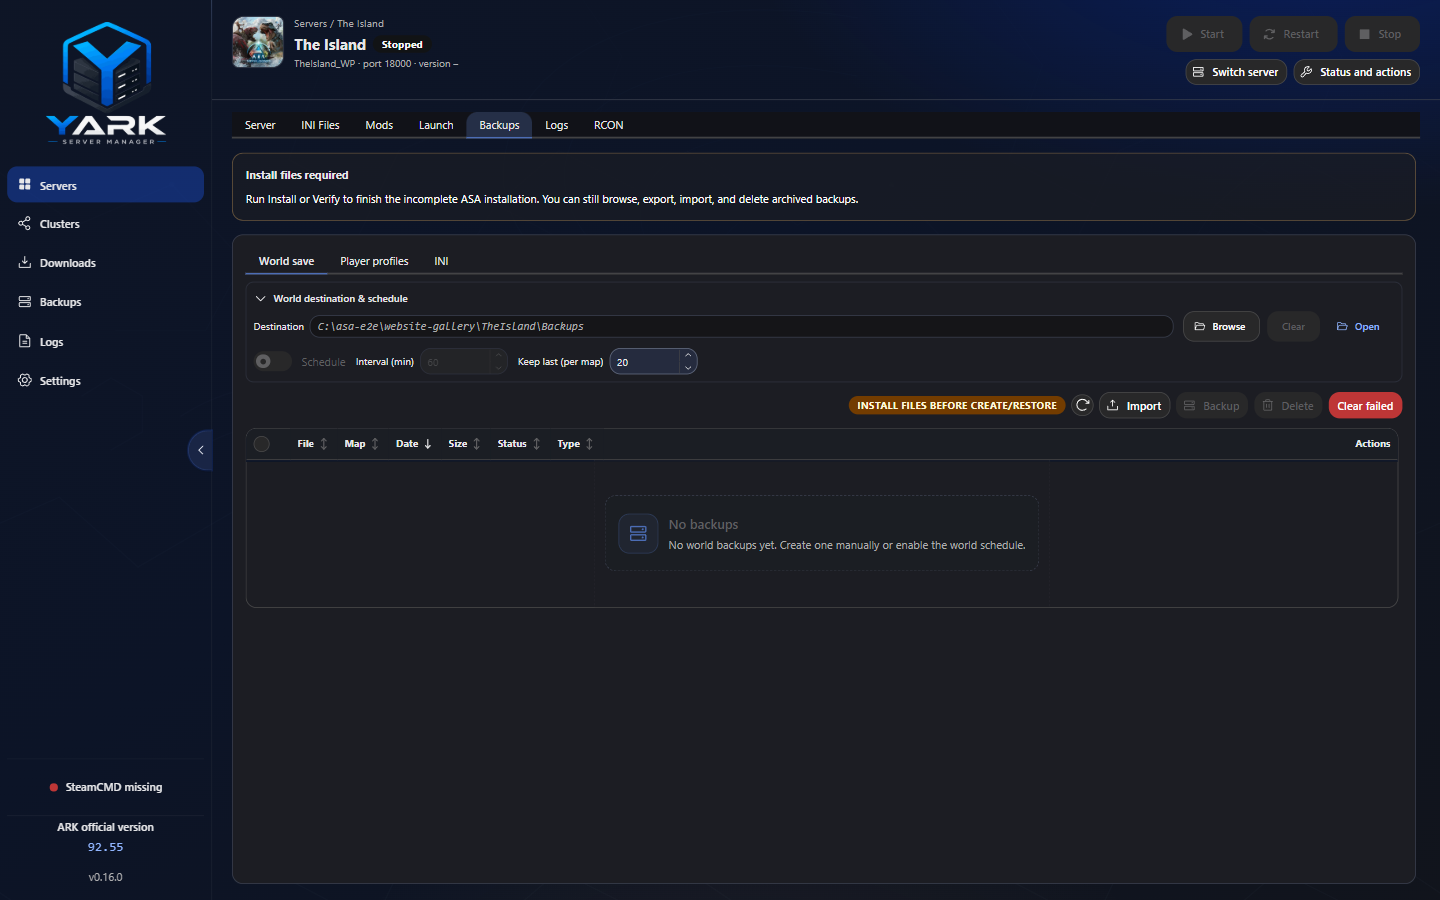
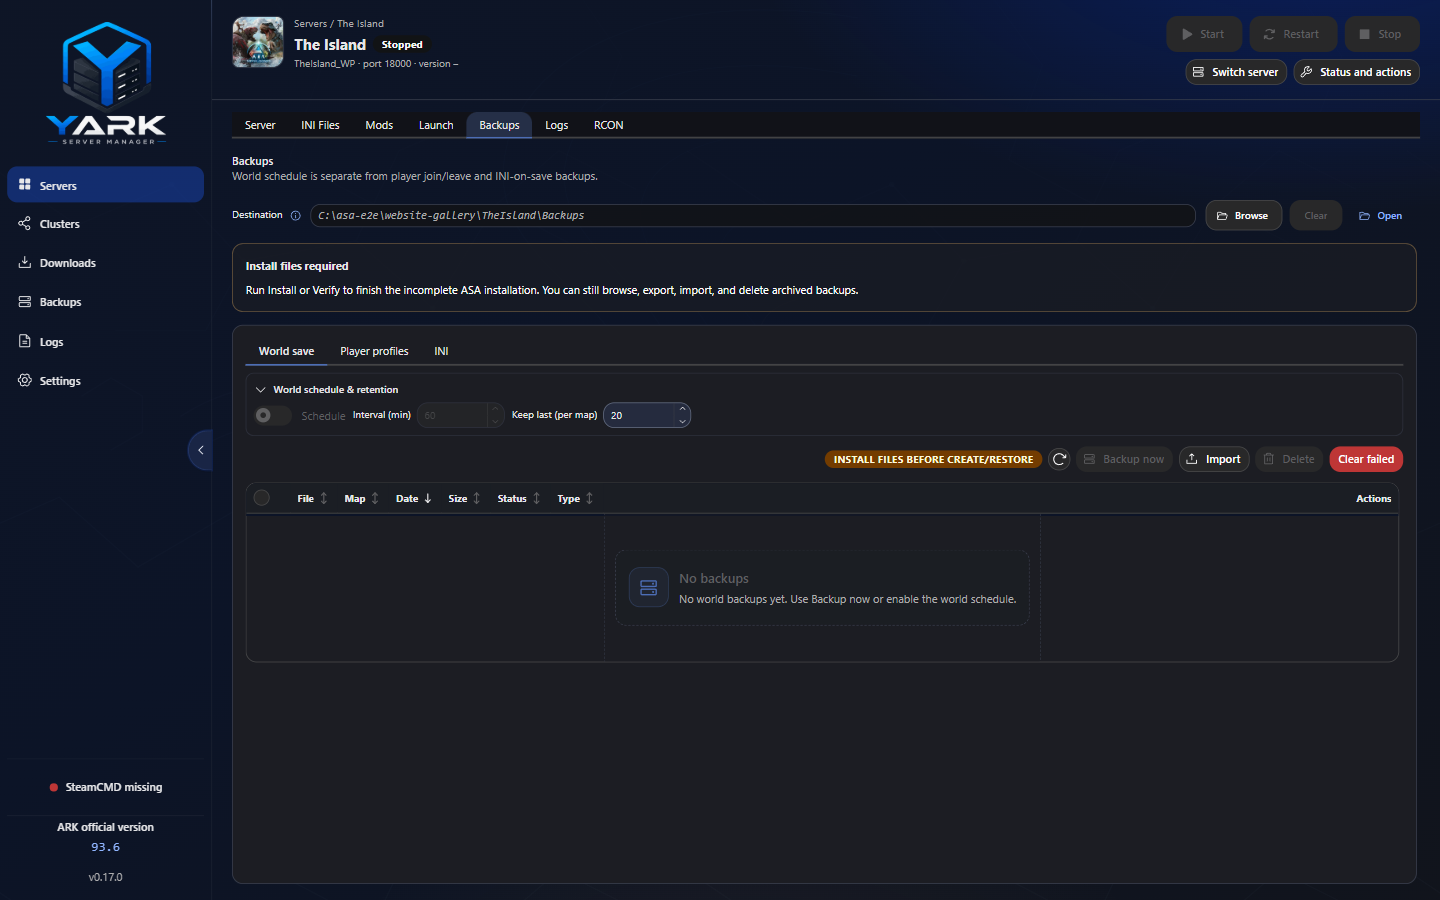
release: v0.17.0
Cut Unreleased into 0.17.0 (RCON Admins, Search Maps, Map picker, ports, Mods screenshots), bump package version, sync What's new and getyark.com docs, and refresh gallery screenshots.

diff --git a/website/src/data/screenshots.ts b/website/src/data/screenshots.ts
@@ -33,9 +33,9 @@ export const screenshots: Screenshot[] = [
   },
   {
     src: withBase("/screenshots/workspace-server.png"),
-    alt: "ASA dedicated server configuration in YARK with identity, Max players, Move installation, networking, cluster, and Auto-start",
+    alt: "ASA dedicated server configuration in YARK with visual Map picker, identity, Max players, Move installation, networking, cluster, and Auto-start",
     caption:
-      "Server configuration — identity, Move installation, ports, access, cluster, and Auto-start. Mods live on the Mods tab.",
+      "Server configuration — visual Map picker (Official / Map mods / Search Maps…), identity, ports, access, cluster, and Auto-start.",
   },
   {
     src: withBase("/screenshots/workspace-launch.png"),
@@ -45,9 +45,9 @@ export const screenshots: Screenshot[] = [
   },
   {
     src: withBase("/screenshots/workspace-mods.png"),
-    alt: "YARK Mods tab with Discover CurseForge browse, load-order table, enable toggles, and metadata",
+    alt: "YARK Mods tab with Discover CurseForge browse, load-order table, enable toggles, and detail screenshots",
     caption:
-      "Mods — Discover browse with categories and pagination, plus a dense load-order table with enable toggles.",
+      "Mods — Discover browse with categories and pagination, dense load-order table, and detail screenshots/description on inspect.",
   },
   {
     src: withBase("/screenshots/workspace-ini.png"),
@@ -57,9 +57,9 @@ export const screenshots: Screenshot[] = [
   },
   {
     src: withBase("/screenshots/workspace-backups.png"),
-    alt: "Per-server Backups tab in YARK with destination, schedule, Import, and Backup actions for an ASA world",
+    alt: "Per-server Backups tab in YARK with shared destination, Backup now, schedule, Import, and history for an ASA world",
     caption:
-      "Server Backups — schedule world saves, browse join/leave player archives, and restore world / players / INI per profile.",
+      "Server Backups — shared destination, Backup now in the history toolbar, world schedule, and restore for world / players / INI.",
   },
   {
     src: withBase("/screenshots/configuration-wizard.png"),

diff --git a/src/shared/changelog.ts b/src/shared/changelog.ts
@@ -24,6 +24,38 @@ const DEFAULT_RECENT_CHANGELOG_LIMIT = 8;
  */
 export const changelog: ChangelogEntry[] = [
   {
+    version: "0.17.0",
+    date: "2026-08-29",
+    sections: [
+      {
+        title: "Added",
+        items: [
+          "RCON Admins: configure ASA admin whitelist via remote http(s) AdminListURL (Validate, interval, Current ids).",
+          "Create and Clone suggest the next free game/query/RCON ports across your YARK fleet.",
+          "Search Maps… on Server Information: CurseForge Maps grid, details with screenshots, and one-step map + mod link.",
+          "Mods detail drawer: CurseForge screenshot carousel and clamped plain-text description on inspect.",
+        ],
+      },
+      {
+        title: "Changed",
+        items: [
+          "Server Information Map field opens a visual popover (Official thumbs, Map mods, Search Maps… / Custom…).",
+          "Official-token remasters keep mapModId and launch with -MapModID= when the pack is enabled.",
+          "Workspace Backups: shared Destination, Backup now in the history toolbar, and clearer embedded chrome.",
+          "Logs Backup history renamed (distinct from the Backups tab); shorter intros and operator toasts.",
+        ],
+      },
+      {
+        title: "Fixed",
+        items: [
+          "Remaster World save folder persists when mapModId is set; clearing AdminListURL no longer reseeds Current ids from the names sidecar.",
+          "Clone port suggestions skip occupied fleet ports; RCON tab scrolls on narrow widths; SteamCMD Install refreshes the path field.",
+          "Search Maps… gates missing Maps category and avoids a flash while categories load; Mods description entities and overflow Show more.",
+        ],
+      },
+    ],
+  },
+  {
     version: "0.16.0",
     date: "2026-08-26",
     sections: [

diff --git a/website/src/data/roadmap.ts b/website/src/data/roadmap.ts
@@ -10,6 +10,9 @@ export type RoadmapItem = {
  * Prefer operator-visible product work from open issues (not CI/packaging hygiene).
  * Not a ship promise — keep wording directional. Milestones on GitHub stay authoritative.
  *
+ * Shipped in v0.17.0 (removed from this list): RCON remote AdminListURL (#153),
+ * create/clone next-free ports (#55), visual Map picker (#460), Search Maps… (#295),
+ * Mods drawer screenshots/description (#342), workspace Backups/Logs polish (#231/#225).
  * Shipped in v0.16.0 (not previously listed here): Overview fleet metric strip
  * (#314), survivor counts (#301), dedicated-process RAM/CPU (#302), Overview
  * search persistence (#438), third-party notices / About link (#446).
@@ -34,15 +37,12 @@ export type RoadmapItem = {
  * profile-DB snapshots (#252), per-map world backups (#262), Electron fuses (#217).
  * Still omitted here (tracked in-repo): E2E/real-host validation (#12), Authenticode (#142),
  * incomplete-import opt-in (#283) is shipped with Import — not listed as future work.
+ * Local AdminListURL / hosted list files remain deferred (Hosted Resources / PHOST-001).
  */
 export const roadmapItems: RoadmapItem[] = [
   {
     tag: "planned",
-    text: "Admin whitelist controls on the RCON Players panel",
-  },
-  {
-    tag: "planned",
-    text: "Smarter default ports and suggestions when creating a new server",
+    text: "Local / hosted AdminListURL for ASA admin whitelist (beyond remote http(s))",
   },
   {
     tag: "planned",

diff --git a/README.md b/README.md
@@ -65,14 +65,15 @@ cloud hosting service, an ARK game launcher, or an official Studio Wildcard prod
 
 | Area | What YARK provides |
 | --- | --- |
-| Server profiles | Create, clone, enable, disable, and manage multiple servers with independent paths, maps, ports, access settings, mods, and cluster fields. **Import install** adopts an existing ASA folder (ready by default; incomplete with opt-in). Overview sort/view toggles and **Update All** queue safe fleet updates into Downloads. |
+| Server profiles | Create, clone, enable, disable, and manage multiple servers with independent paths, maps, ports, access settings, mods, and cluster fields. **Import install** adopts an existing ASA folder (ready by default; incomplete with opt-in). Overview sort/view toggles and **Update All** queue safe fleet updates into Downloads. **Create/Clone** suggest the next free game/query/RCON ports across the fleet. |
 | Lifecycle | Start, stop, restart, and force-close exact managed processes; readiness waits for RCON instead of assuming a spawned process is healthy. **Remove from YARK only** keeps the install folder, or wipe everything on delete. |
 | SteamCMD | Install, update, and verify ASA server files using a shared content cache; **Downloads** queues those jobs with Pause/Resume and a live console. |
 | Safe maintenance | Coordinate stop, recovery backups, update/verify work, conditional restart, and rollback through locked backend operations. |
 | Backups | Create, restore, export, and import world / INI archives; player join/leave archives; schedule world backups and inspect fleet health. |
-| Configuration | Edit `GameUserSettings.ini` and `Game.ini` through visual and raw editors, with a guided configuration wizard. Launch tab search filters curated ASA flags. |
-| Mods | Manage CurseForge Project IDs, metadata, enable/disable state, and launch-time `-mods=` composition without embedding the CurseForge API key. **Maps** packs: enable on Mods, then pick under Server Information → Map (Map mods / Custom…). |
-| Diagnostics | Review events, runtime output, SteamCMD history, backup activity, installation health, host-port conflicts, and log retention. |
+| Configuration | Edit `GameUserSettings.ini` and `Game.ini` through visual and raw editors, with a guided configuration wizard. Visual **Map** popover with **Search Maps…**; Launch tab search filters curated ASA flags. |
+| RCON | Persistent workspace console for commands, survivors, ban list, and remote **AdminListURL** admin whitelist while a server is running. |
+| Mods | Manage CurseForge Project IDs, metadata, enable/disable state, detail screenshots/description, and launch-time `-mods=` composition without embedding the CurseForge API key. **Maps** packs: **Search Maps…** or enable on Mods, then pick under Server Information → Map. |
+| Diagnostics | Review events, runtime output, SteamCMD history, Backup history, installation health, host-port conflicts, and log retention. |
 | Windows integration | System tray, close-to-tray, Start with Windows, Auto-start with YARK, in-app YARK updates, and Windows-aware process/file operations. |
 
 ## Screenshots
@@ -80,12 +81,12 @@ cloud hosting service, an ARK game launcher, or an official Studio Wildcard prod
 | Server configuration | Visual INI editor |
 | --- | --- |
 | ![Server configuration workspace](website/public/screenshots/workspace-server.png) | ![Visual INI editor](website/public/screenshots/workspace-ini.png) |
-| Identity, Move installation, networking, Auto-start, and cluster. | Searchable settings with descriptions and visual controls. |
+| Identity, visual Map picker, networking, Auto-start, and cluster. | Searchable settings with descriptions and visual controls. |
 
 | CurseForge mods | Backup operations |
 | --- | --- |
 | ![CurseForge mods workspace](website/public/screenshots/workspace-mods.png) | ![Backup operations](website/public/screenshots/backups.png) |
-| Per-server Project IDs, metadata, and enable/disable state. | Fleet health, destinations, schedules, and export/import across servers. |
+| Per-server Project IDs, Discover, and detail screenshots. | Fleet health, destinations, schedules, and export/import across servers. |
 
 | Downloads queue | Clusters |
 | --- | --- |

diff --git a/docs/server-lifecycle.md b/docs/server-lifecycle.md
@@ -459,8 +459,10 @@ Constants: `PORT_MIN = 1024`, `PORT_MAX = 65535`.
 
 Inter-profile: `findPortConflicts` flags the same numeric port used by
 different profile ids (any kind). Create/update check all other profiles;
-start checks **active** others only. Clone bumps ports by +10 (wraps within
-1024–65535; retry up to offset 1000).
+start checks **active** others only. **Create** and **Clone** (and auto-clone)
+suggest the next free game/query/RCON triplet via `suggestNextPortTriplet`
+(factory defaults `7777` / `27015` / `27020`, then +10 steps that skip ports
+already used by other YARK profiles).
 
 Host probe (start only): bind-probes UDP game/query and TCP RCON. Busy includes
 best-effort Windows owner PID/name (async PowerShell). Inconclusive never claims

diff --git a/docs/logs.md b/docs/logs.md
@@ -102,7 +102,7 @@ Export (`logs:export`) resolves the same fields so text dumps stay useful.
 | Events | SQLite `events` for that server |
 | Runtime | In-memory buffer: stdout/stderr plus live tail of `ShooterGame/Saved/Logs/ShooterGame.log` (native console on or off). Cleared on the next Start, not on crash. |
 | Updates | Files under userData `update-logs/` (`{serverId}-….log`) |
-| Backups | Backup records from `BackupService` / repository |
+| Backups (**Backup history** in the UI) | Backup records from `BackupService` / repository |
 
 While the Runtime tab is selected, the panel quietly refreshes about every 1.5s
 via `logs:runtime` (runtime buffer only — not a full `logs:list`). Stale responses

diff --git a/CHANGELOG.md b/CHANGELOG.md
@@ -9,6 +9,8 @@ How to bump versions and cut releases: see [docs/versioning.md](docs/versioning.
 
 ## [Unreleased]
 
+## [0.17.0] - 2026-08-29
+
 ### Added
 
 - RCON **Admins** panel: configure ASA admin whitelist via **remote http(s) AdminListURL** only (Validate, interval, Current ids); Local file / loopback hosting deferred to Hosted Resources (PHOST-001). Display names still learned into a YARK sidecar when an EOS id is seen Online (#153).
